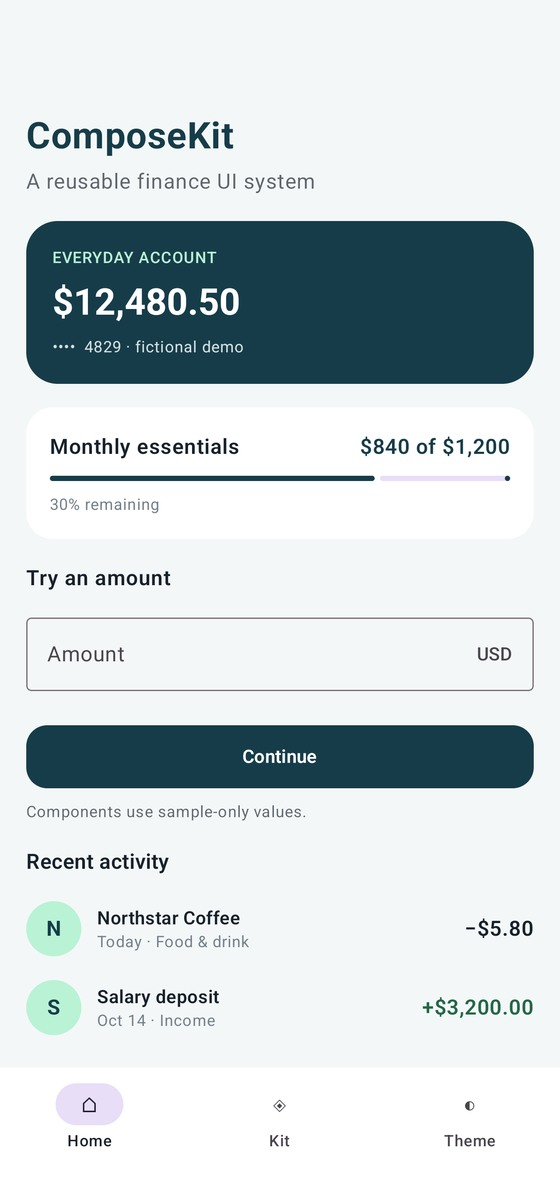
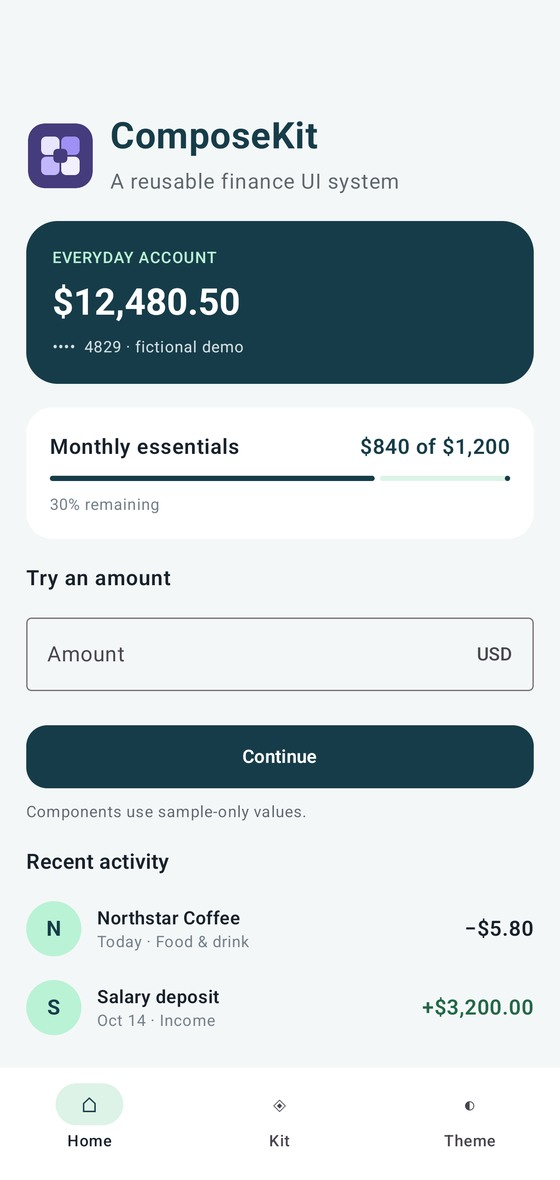
Add app branding and repair screenshot links

Changed region(s): [[0.0304, 0.0915, 0.5768, 0.1831], [0.6071, 0.1525, 0.6982, 0.1831], [0.1518, 0.9153, 0.1821, 0.9458]]

diff --git a/composekit/src/main/kotlin/com/premsingh/composekit/FintechComponents.kt b/composekit/src/main/kotlin/com/premsingh/composekit/FintechComponents.kt
@@ -50,9 +50,9 @@ enum class ComposeKitPalette { Ocean, Garden, Midnight }
 @Composable
 fun ComposeKitTheme(palette: ComposeKitPalette = ComposeKitPalette.Ocean, content: @Composable () -> Unit) {
     val scheme = when (palette) {
-        ComposeKitPalette.Ocean -> lightColorScheme(primary = ComposeKitColors.Navy, secondary = ComposeKitColors.Mint, background = ComposeKitColors.Canvas, surface = Color.White, onBackground = ComposeKitColors.Ink, onSurface = ComposeKitColors.Ink)
-        ComposeKitPalette.Garden -> lightColorScheme(primary = Color(0xFF42664B), secondary = Color(0xFFDCE8D4), background = Color(0xFFF5F6EE), surface = Color.White, onBackground = Color(0xFF222A23), onSurface = Color(0xFF222A23))
-        ComposeKitPalette.Midnight -> androidx.compose.material3.darkColorScheme(primary = Color(0xFF8EDDB6), secondary = Color(0xFF355A51), background = Color(0xFF101B20), surface = Color(0xFF1C2A30), onBackground = Color(0xFFE6EEF0), onSurface = Color(0xFFE6EEF0))
+        ComposeKitPalette.Ocean -> lightColorScheme(primary = ComposeKitColors.Navy, secondary = ComposeKitColors.Mint, primaryContainer = Color(0xFFDCE9EC), onPrimaryContainer = ComposeKitColors.Navy, secondaryContainer = Color(0xFFDDF3E7), onSecondaryContainer = ComposeKitColors.Navy, background = ComposeKitColors.Canvas, surface = Color.White, onBackground = ComposeKitColors.Ink, onSurface = ComposeKitColors.Ink)
+        ComposeKitPalette.Garden -> lightColorScheme(primary = Color(0xFF42664B), secondary = Color(0xFFDCE8D4), primaryContainer = Color(0xFFDCE8D4), onPrimaryContainer = Color(0xFF222A23), secondaryContainer = Color(0xFFDCE8D4), onSecondaryContainer = Color(0xFF222A23), background = Color(0xFFF5F6EE), surface = Color.White, onBackground = Color(0xFF222A23), onSurface = Color(0xFF222A23))
+        ComposeKitPalette.Midnight -> androidx.compose.material3.darkColorScheme(primary = Color(0xFF8EDDB6), secondary = Color(0xFF355A51), primaryContainer = Color(0xFF28453C), onPrimaryContainer = Color(0xFFE6EEF0), secondaryContainer = Color(0xFF355A51), onSecondaryContainer = Color(0xFFE6EEF0), background = Color(0xFF101B20), surface = Color(0xFF1C2A30), onBackground = Color(0xFFE6EEF0), onSurface = Color(0xFFE6EEF0))
     }
     MaterialTheme(
         colorScheme = scheme,

diff --git a/demo/src/main/kotlin/com/premsingh/composekit/demo/DemoActivity.kt b/demo/src/main/kotlin/com/premsingh/composekit/demo/DemoActivity.kt
@@ -3,6 +3,7 @@ package com.premsingh.composekit.demo
 import android.os.Bundle
 import androidx.activity.ComponentActivity
 import androidx.activity.compose.setContent
+import androidx.compose.foundation.Image
 import androidx.compose.foundation.layout.Arrangement
 import androidx.compose.foundation.layout.Column
 import androidx.compose.foundation.layout.PaddingValues
@@ -14,6 +15,7 @@ import androidx.compose.foundation.layout.fillMaxWidth
 import androidx.compose.foundation.layout.navigationBars
 import androidx.compose.foundation.layout.padding
 import androidx.compose.foundation.layout.statusBars
+import androidx.compose.foundation.layout.size
 import androidx.compose.foundation.lazy.LazyColumn
 import androidx.compose.material3.MaterialTheme
 import androidx.compose.material3.NavigationBar
@@ -27,6 +29,8 @@ import androidx.compose.runtime.mutableStateOf
 import androidx.compose.runtime.saveable.rememberSaveable
 import androidx.compose.runtime.setValue
 import androidx.compose.ui.Modifier
+import androidx.compose.ui.Alignment
+import androidx.compose.ui.res.painterResource
 import androidx.compose.ui.text.font.FontWeight
 import androidx.compose.ui.unit.dp
 import androidx.compose.ui.unit.sp
@@ -130,8 +134,11 @@ private fun ComposeKitShowcase() {
 
 @Composable
 private fun Header(title: String, subtitle: String) {
-    Column(verticalArrangement = Arrangement.spacedBy(6.dp)) {
-        Text(title, color = MaterialTheme.colorScheme.primary, fontSize = 28.sp, fontWeight = FontWeight.Bold)
-        Text(subtitle, color = MaterialTheme.colorScheme.onBackground.copy(alpha = .68f))
+    Row(horizontalArrangement = Arrangement.spacedBy(12.dp), verticalAlignment = Alignment.CenterVertically) {
+        Image(painterResource(com.premsingh.composekit.demo.R.drawable.brand_logo), contentDescription = "ComposeKit logo", modifier = Modifier.size(52.dp))
+        Column(verticalArrangement = Arrangement.spacedBy(6.dp)) {
+            Text(title, color = MaterialTheme.colorScheme.primary, fontSize = 28.sp, fontWeight = FontWeight.Bold)
+            Text(subtitle, color = MaterialTheme.colorScheme.onBackground.copy(alpha = .68f))
+        }
     }
 }

diff --git a/README.md b/README.md
@@ -1,5 +1,7 @@
 # ComposeKit
 
+<p align="center"><img src="https://raw.githubusercontent.com/premsinghsodha7/ComposeKit/main/brand-logo.png" alt="ComposeKit logo" width="150"></p>
+
 > Reusable Jetpack Compose building blocks for clear, polished finance interfaces.
 
 ComposeKit is an Android library module plus a runnable demo app. Its components are presentation-only: they do not send payments or persist financial data.
